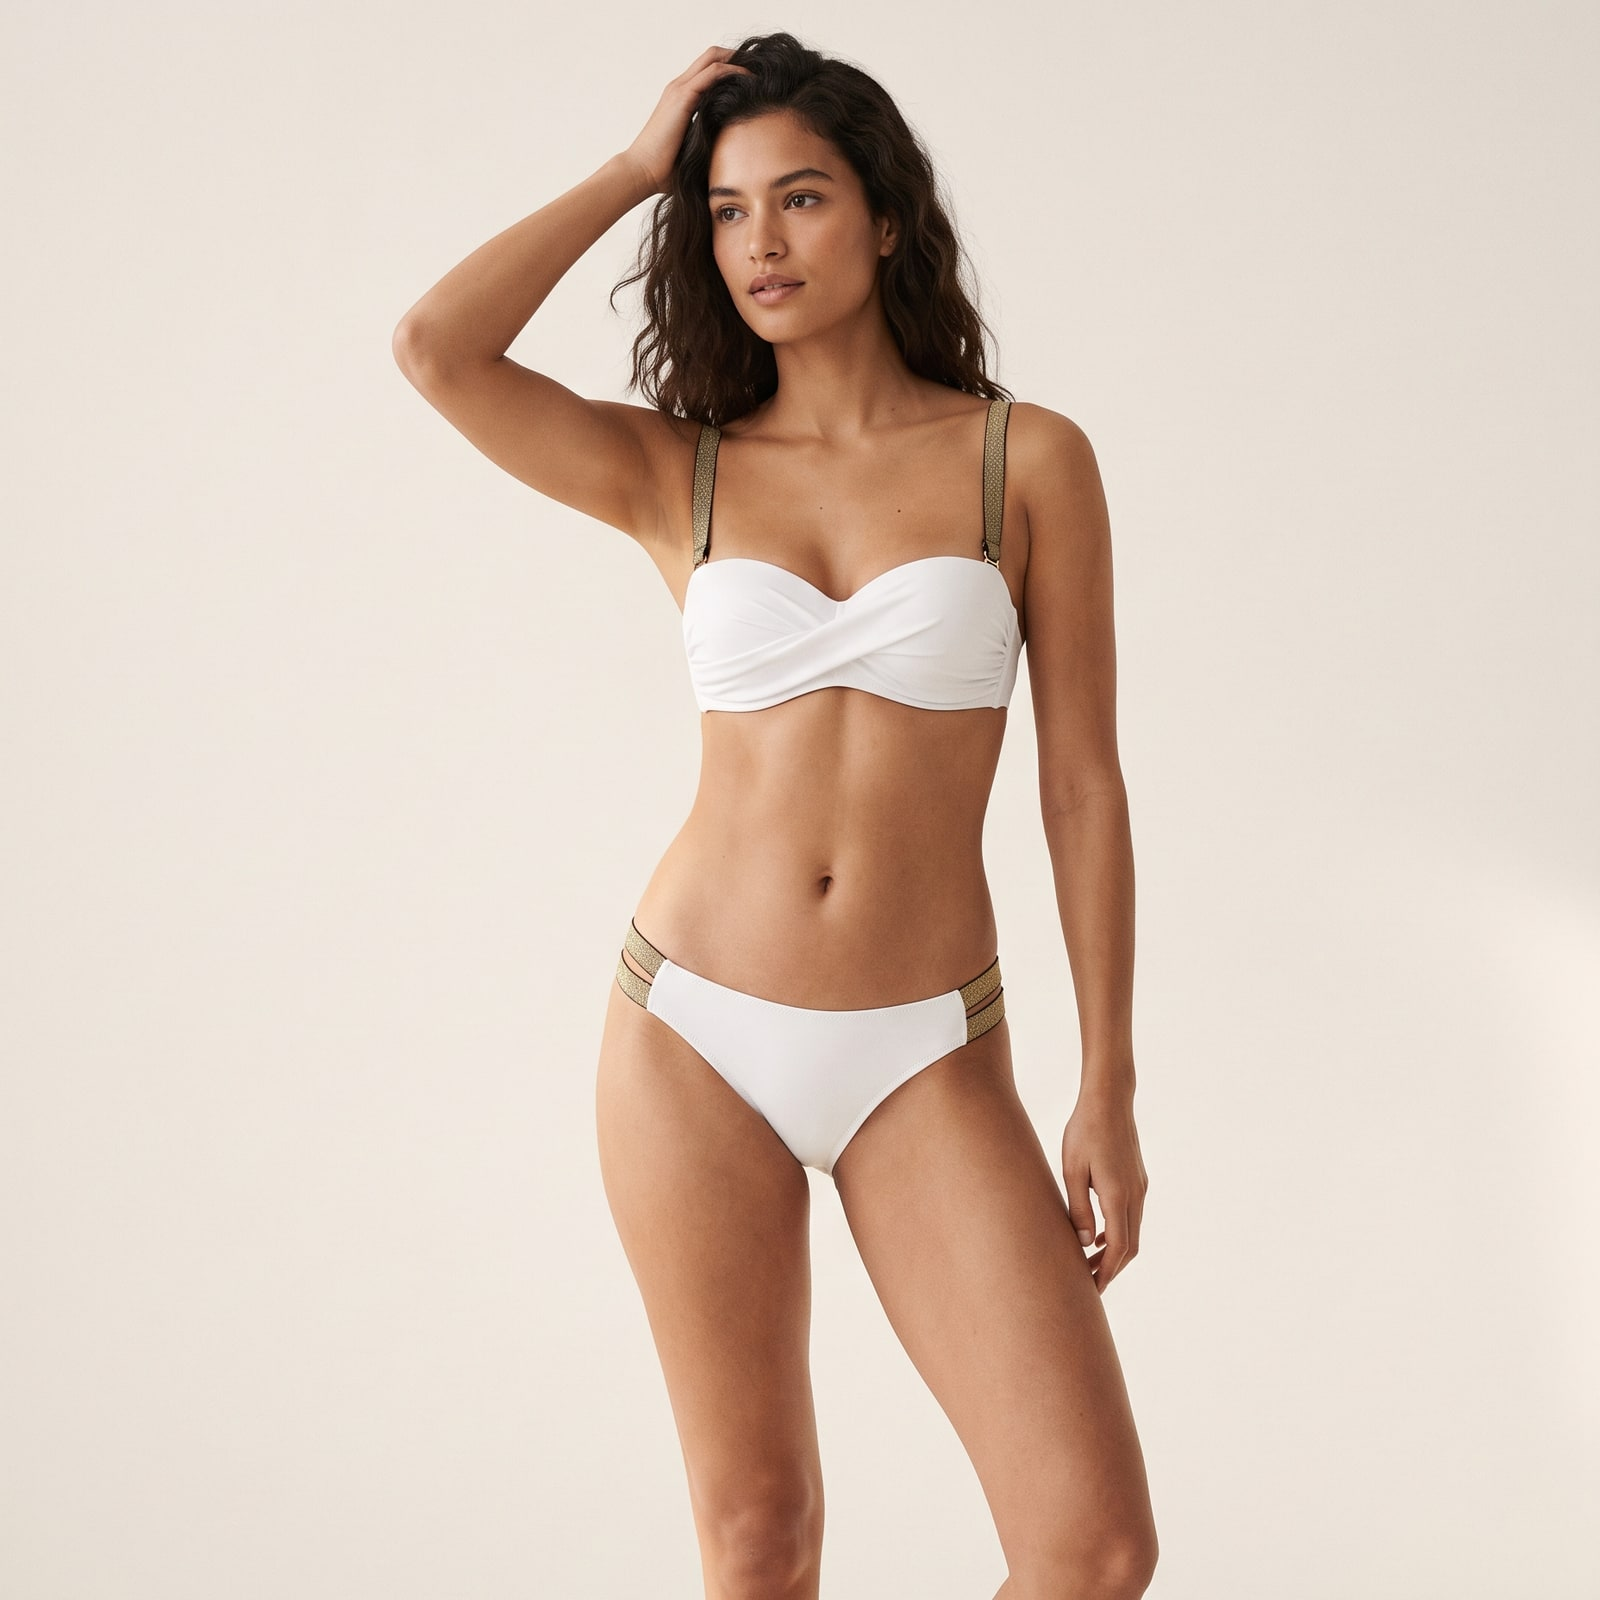
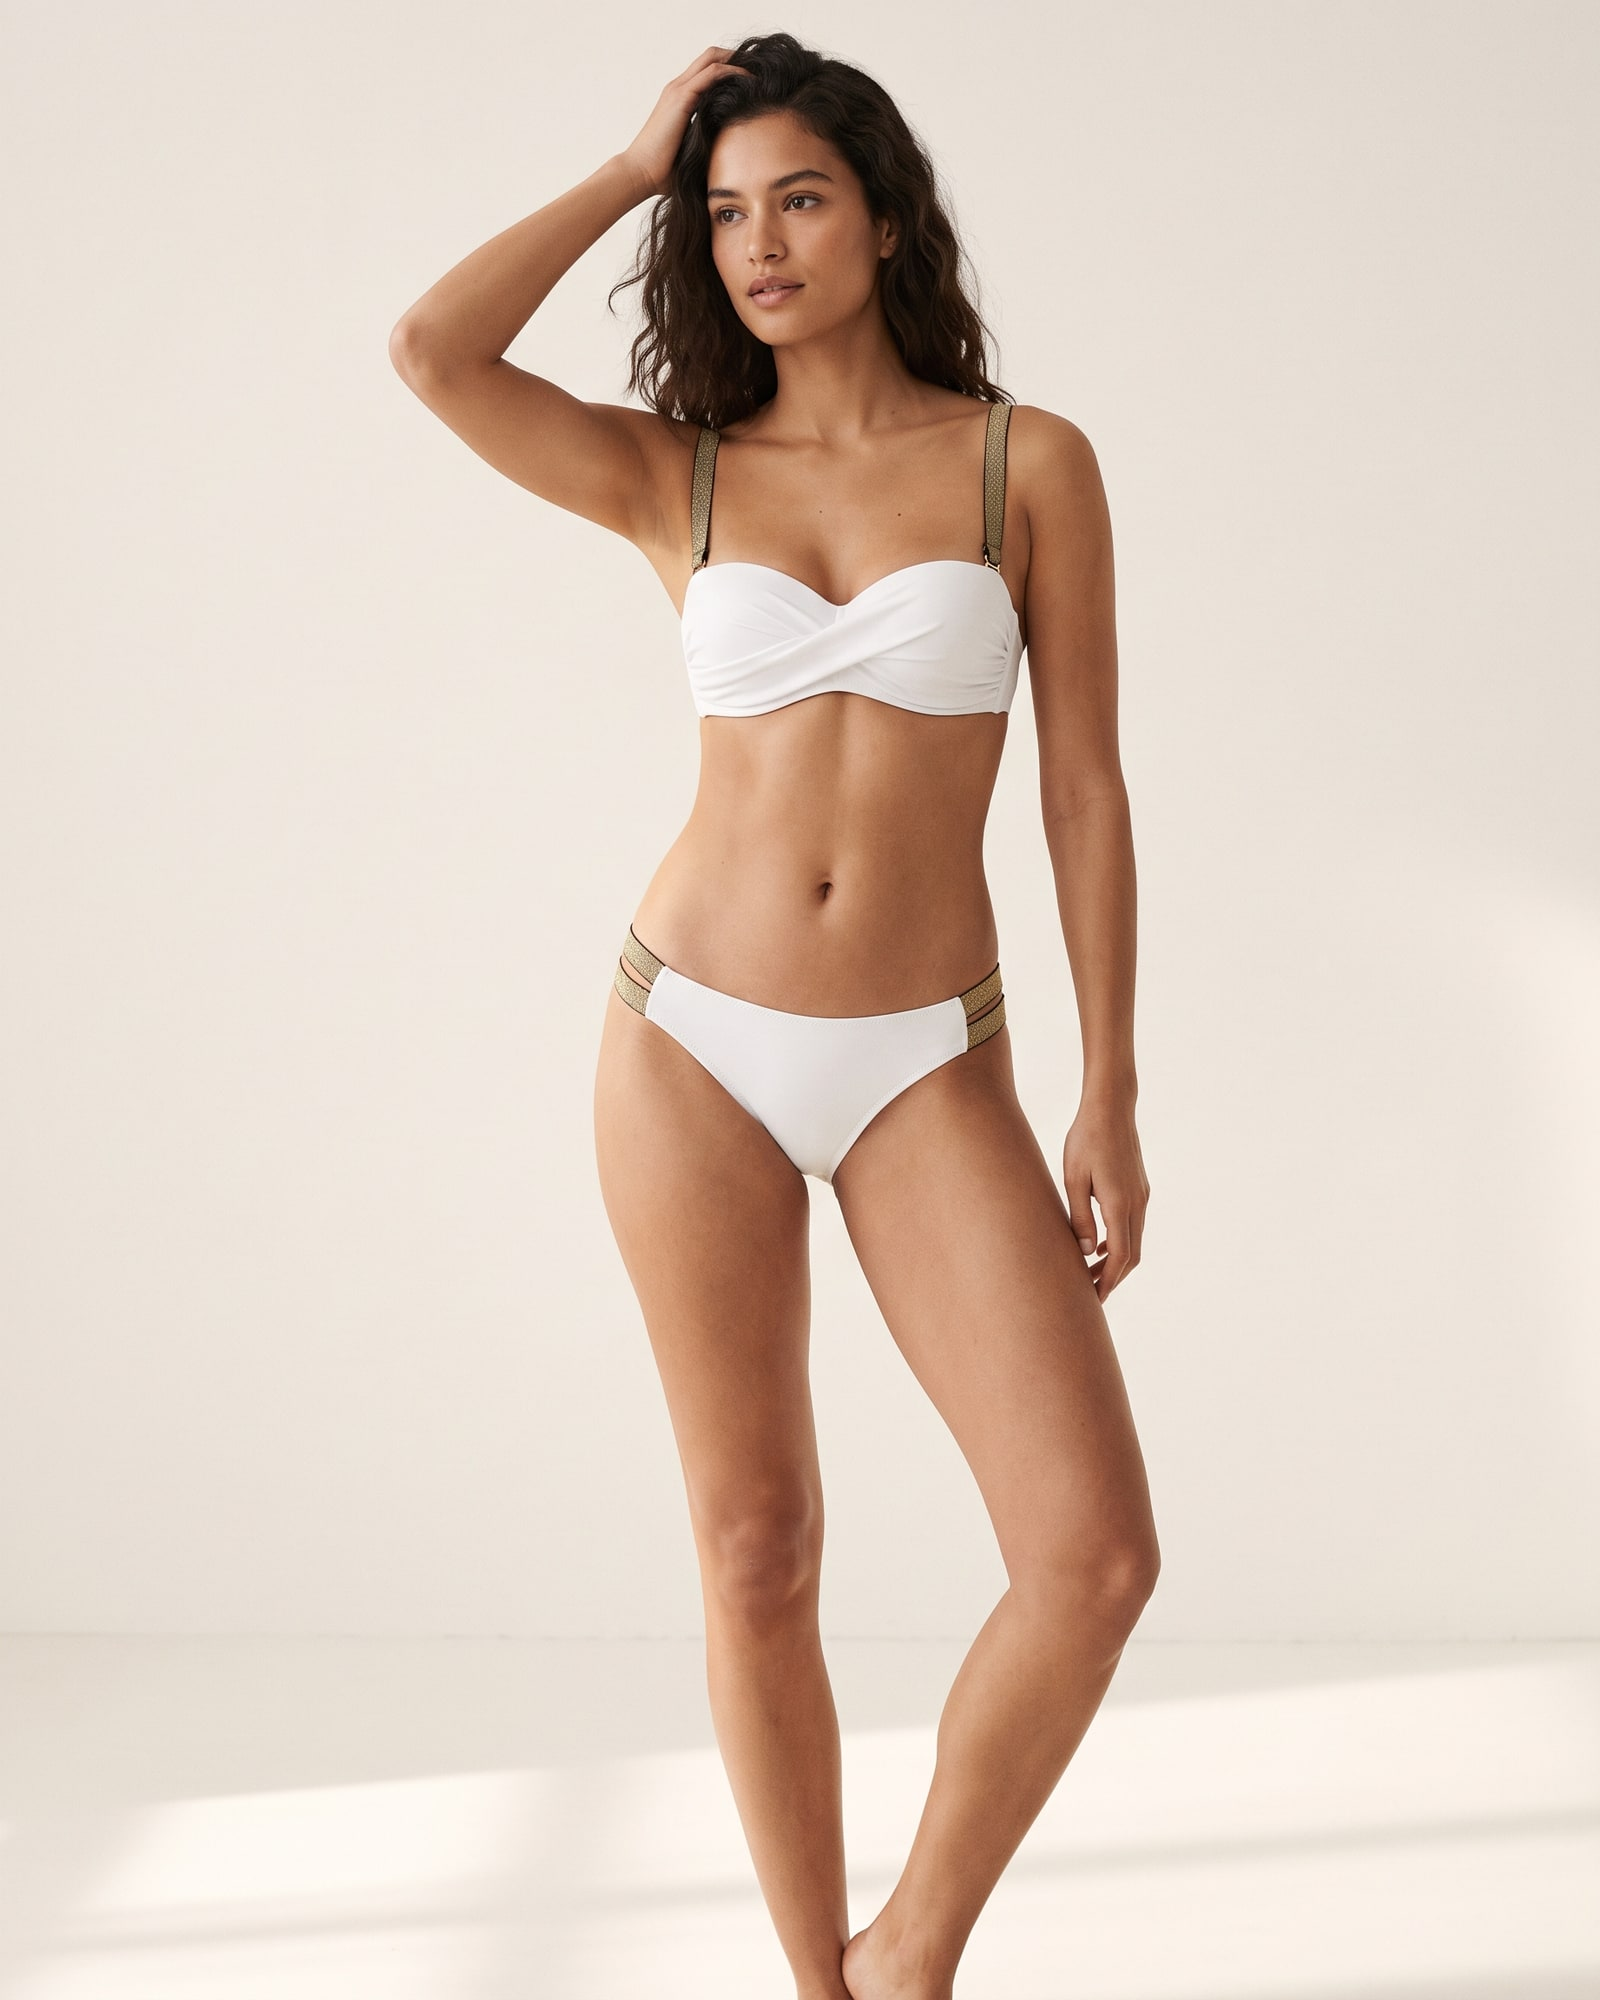
Produktkarten im Hochformat 4:5, ohne Ansehen-Knopf und Bildpunkte
Model-Bilder werden nicht mehr quadratisch zugeschnitten, damit die ganze
Figur sichtbar bleibt. Beim Ueberfahren blendet das Model-Bild weich ein
(schon vorgeladen). Packshots und Model-Bilder neu als 1600x2000.

Changed region(s): [[0.2188, 0.0, 0.75, 1.0], [0.0312, 0.9062, 0.2812, 1.0]]

diff --git a/src/components/sections/CollectionGrid.tsx b/src/components/sections/CollectionGrid.tsx
@@ -39,48 +39,55 @@ function BershkaCard({
 }) {
   const t = useTranslations("collection");
   const [hovered, setHovered] = useState(false);
-  const [activeImg, setActiveImg] = useState(0);
   // Farb-Bilder zuerst, dann allgemeine Bilder – ohne Duplikate
   const colorImgs = (product.colorImages ?? []).filter(Boolean);
   const all = [...colorImgs, ...(product.images ?? []).filter((s) => s && !colorImgs.includes(s))];
   // Wie bei H&M: Packshot auf Weiss als Titelbild, beim Überfahren das Model-Bild
   // (Dateinamen <slug>-packshot / <slug>-model, siehe tools/product-images.mjs)
   const title = all.find((s) => s.includes("-packshot")) ?? all[0];
-  const hoverImg = all.find((s) => s.includes("-model"));
-  const images = [title, hoverImg, ...all].filter((s, i, arr): s is string => !!s && arr.indexOf(s) === i);
+  const hoverImg = all.find((s) => s.includes("-model")) ?? all.find((s) => s !== title);
   const name = product.name[locale];
 
   return (
     <Link
       href={`/${locale}/product/${product.slug}`}
       className="block group"
-      onMouseEnter={() => { setHovered(true); if (hoverImg) setActiveImg(1); }}
-      onMouseLeave={() => { setHovered(false); setActiveImg(0); }}
+      onMouseEnter={() => setHovered(true)}
+      onMouseLeave={() => setHovered(false)}
       style={{ textDecoration: "none" }}
     >
-      {/* Image container */}
+      {/* Image container – Hochformat, damit das Model von Kopf bis Fuss Platz hat */}
       <div
         className="relative overflow-hidden"
         style={{
-          aspectRatio: "1 / 1",
+          aspectRatio: "4 / 5",
           background: "#E8E4DE",
         }}
       >
-        {images.length > 0 ? (
-          <Image
-            src={images[activeImg]}
-            alt={name}
-            fill
-            sizes={featured
-              ? "(max-width: 768px) 100vw, 66vw"
-              : "(max-width: 640px) 50vw, (max-width: 1024px) 33vw, 25vw"}
-            className="object-cover object-center"
-            style={{
-              transform: hovered ? "scale(1.04)" : "scale(1)",
-              transition: "transform 0.6s cubic-bezier(0.25, 0.46, 0.45, 0.94)",
-            }}
-            priority={featured}
-          />
+        {title ? (
+          <>
+            <Image
+              src={title}
+              alt={name}
+              fill
+              sizes={featured
+                ? "(max-width: 768px) 100vw, 66vw"
+                : "(max-width: 640px) 50vw, (max-width: 1024px) 33vw, 25vw"}
+              className="object-cover object-center"
+              priority={featured}
+            />
+            {/* Zweites Bild liegt schon geladen darüber und wird beim Überfahren eingeblendet */}
+            {hoverImg && (
+              <Image
+                src={hoverImg}
+                alt=""
+                fill
+                sizes="(max-width: 640px) 50vw, (max-width: 1024px) 33vw, 25vw"
+                className="object-cover object-center"
+                style={{ opacity: hovered ? 1 : 0, transition: "opacity 0.35s ease" }}
+              />
+            )}
+          </>
         ) : (
           <div
             className="w-full h-full flex items-end justify-center pb-8 gap-2"
@@ -88,63 +95,6 @@ function BershkaCard({
           >
             {product.colors.slice(0, 3).map((c, i) => (
               <div key={c} style={{ background: c, width: 32, height: 48 + i * 20, opacity: 0.85 }} />
-            ))}
-          </div>
-        )}
-
-        {/* Hover overlay */}
-        <div
-          style={{
-            position: "absolute",
-            inset: 0,
-            background: "rgba(26,48,64,0.18)",
-            opacity: hovered ? 1 : 0,
-            transition: "opacity 0.3s ease",
-            display: "flex",
-            alignItems: "flex-end",
-            justifyContent: "center",
-            paddingBottom: "20px",
-          }}
-        >
-          <span
-            style={{
-              background: "#F8F3E8",
-              color: "#1A3040",
-              fontSize: "10px",
-              fontFamily: "var(--font-archivo-black), sans-serif",
-              fontWeight: 900,
-              letterSpacing: "0.2em",
-              textTransform: "uppercase",
-              padding: "10px 24px",
-              transform: hovered ? "translateY(0)" : "translateY(8px)",
-              transition: "transform 0.3s ease",
-            }}
-          >
-            {t("view_product")}
-          </span>
-        </div>
-
-        {/* Image switcher dots on hover */}
-        {images.length > 1 && hovered && (
-          <div
-            className="absolute top-3 left-0 right-0 flex justify-center gap-1.5"
-            style={{ zIndex: 10 }}
-          >
-            {images.map((_, i) => (
-              <button
-                key={i}
-                type="button"
-                onClick={(e) => { e.preventDefault(); setActiveImg(i); }}
-                style={{
-                  width: i === activeImg ? "20px" : "6px",
-                  height: "2px",
-                  background: i === activeImg ? "#F8F3E8" : "rgba(248,243,232,0.5)",
-                  border: "none",
-                  cursor: "pointer",
-                  transition: "all 0.2s ease",
-                  padding: 0,
-                }}
-              />
             ))}
           </div>
         )}
